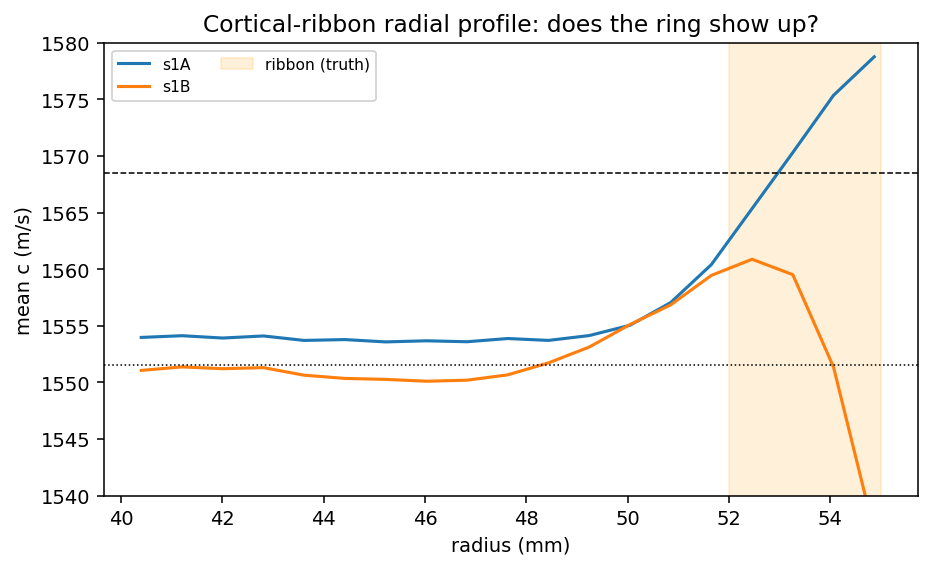
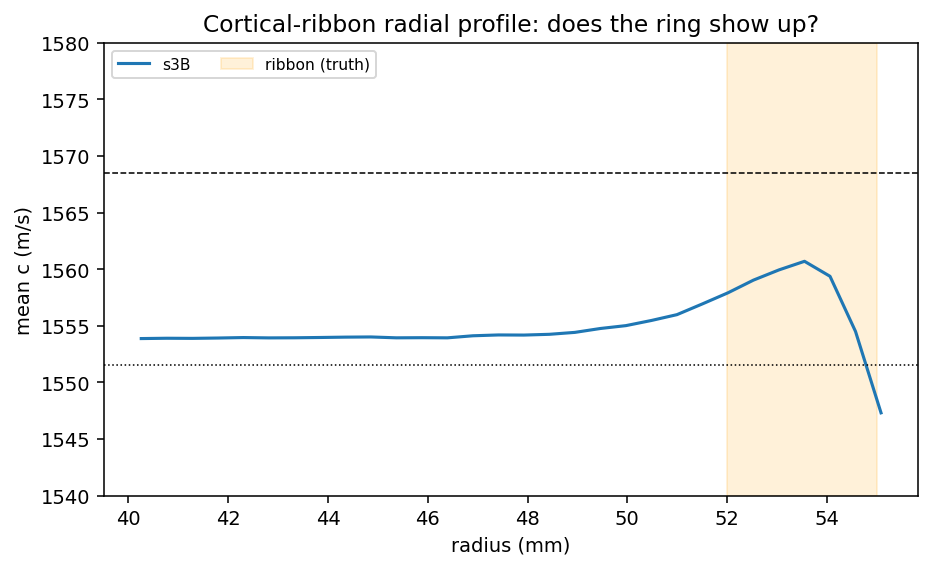
Frequency ladder complete in the fixed configuration: ribbon AUC 0.96 at 1.56 mm
--invert-all --smooth 2.0 up the ladder (stage 1/2/3): ribbon AUC
0.974 / 0.945 / 0.961 vs 0.848 / 0.798 / 0.858 frozen; nuclei AUC 1.000 at
every stage; WM speckle halved (5.0 -> 2.8 m/s); SSIM 0.25 -> 0.44-0.46.

ppw series (stage-1 and stage-2 bands on finer grids, smoothing fixed in
grid points): speckle rises monotonically 5.0 -> 6.2 -> 7.0 for ppw
3.2 -> 4.0 -> 4.9 and the ribbon collapses (0.85 -> 0.66). Speckle is set
by the regularisation scale in wavelengths, not by discretisation; the rule
is gradient_smooth_sigma ~ lambda/2 at the top band, scaled with ppw.

Risk register updated: item 7 (AUC != image quality) closed; new item 9
(frozen-interface edge artefact; unknown-skull compound case untested).

Claude-Session: https://claude.ai/code/session_01YLErgfPXCceEShEKvumB7Q

diff --git a/docs/design/scope_3d_gmwm_run.md b/docs/design/scope_3d_gmwm_run.md
@@ -520,3 +520,56 @@ recovered skull (0.07 vox) and a co-inverted diploe (0.3%) the start is near-tru
 expectation is that it composes; but a free skull that starts wrong may drift, and that
 is the compound pose+property+free-interface test the campaign has not run. Bounded,
 low-learning-rate inversion of the skull band is the conservative form to build.
+
+### ppw test: more points per wavelength makes speckle WORSE (`--stage 1 --N 176`, ppw 4.9)
+
+| stage-1 bands (300 kHz), frozen interface, σ_grad = 1 grid pt | ppw | σ_grad in λ | speckle σ | ribbon AUC | inner | nuclei AUC |
+|---|---|---|---|---|---|---|
+| N=112 (s1B) | 3.2 | λ/3.2 | 5.01 | 0.848 | 0.887 | 0.998 |
+| N=144 (s1B_ppw40), Modal A100-80, 34 min | 4.0 | λ/4.0 | **6.16** | **0.662** | 0.677 | 0.994 |
+| N=176 (s1B_ppw49), Modal A100-80, 74 min | 4.9 | λ/4.9 | **7.01** | **0.673** | 0.637 | 0.963 |
+| stage-2 bands (400 kHz): N=144 (s2B) | 3.1 | λ/3.1 | 4.21 | 0.798 | 0.823 | 0.998 |
+| stage-2 bands: N=176 (s2B_ppw37), 75 min | 3.7 | λ/3.7 | **4.74** | **0.612** | 0.604 | 0.987 |
+
+Monotonic across ppw 3.2 → 4.0 → 4.9 (speckle 5.0 → 6.2 → 7.0). The ppw hypothesis is dead: at fixed frequency and budget, a finer grid gives the gradient
+*more* sub-wavelength degrees of freedom to deposit noise in, and a smoothing kernel fixed
+in grid points shrinks in physical terms (λ/3 → λ/5). Speckle is set by the
+**regularisation scale measured in wavelengths**, not by discretisation accuracy; ppw 3.1
+was never the problem. Together with the σ=2 result this fixes the rule: specify
+`gradient_smooth_sigma` physically, ≈ λ/2 at the top band (2 grid points at ppw 3-4), and
+scale it with ppw when the grid is refined.
+
+### The fixed configuration up the ladder (`--invert-all --smooth 2.0`, 20 it × 4 shots)
+
+| stage | res | ribbon AUC / % | inner | outer | nuclei AUC / % | speckle σ | SSIM | RMSE | wall |
+|---|---|---|---|---|---|---|---|---|---|
+| 1 | 2.60 mm | **0.974** / 50% | 0.954 | 0.969 | 1.000 / 112% | 3.30 | 0.454 | 5.23 | 8 min RTX5090 |
+| 2 | 1.95 mm | **0.945** / 35% | 0.922 | 0.957 | 1.000 / 91% | **2.75** | **0.459** | 5.28 | 31 min A100-80 |
+| 3 | 1.56 mm | **0.961** / 39% | 0.936 | 0.973 | 1.000 / 83% | 2.82 | 0.440 | 5.20 | 71 min A100-80 |
+
+vs. the frozen-interface, σ=1 ladder: ribbon 0.848 / 0.798 / 0.858 → **0.974 / 0.945 / 0.961**. The fixed config lifts
+the ribbon by ~0.1-0.15 AUC at every stage and halves the speckle. Speckle keeps falling
+with N under the fixed config (3.3 → 2.75) — the λ/2 kernel now has more voxels to average.
+The ring amplitude falls with N at fixed budget (50 → 35%), the under-iteration effect
+measured earlier; a budget ∝ N³ ladder is the clean follow-up.
+
+**Headline (stage 3, 500 kHz, 1.02 mm voxels, transcranial, skull at truth, noiseless):
+3 mm cortical ribbon AUC 0.961 (inner 0.936 / outer 0.973), deep-gray GM/WM AUC 1.000 /
+83%, ventricle AUC 1.000, WM speckle 2.8 m/s, SSIM 0.44.** Every stage of the ladder now
+resolves the ribbon; the whole campaign's open "resolution" question was two configuration
+changes. Total cloud cost of the stage 2-3 ladder, the ppw series and the remedy sweep:
+≈ $25 (beam RTX5090 + Modal A100-80GB), 2026-10-22/23.
+
+### Risk register, updated
+1. ~~Diploe speed error~~ — CLOSED (co-inversion, 0.3%)
+2. Skull pose error — cliff at 0.25 vox; MOFI clears it ~3.5×
+3. Bulk skull speed error — graceful to 5%
+4. Coverage — ≥32 elements; also the only data-side lever on speckle (7.6 → 4.4 m/s)
+5. Noise — tolerable to 10 dB
+6. Skull attenuation error — nearly irrelevant
+7. ~~AUC is not image quality~~ — **CLOSED**: `gmwm_spatial_fidelity.py`; SSIM 0.25 → 0.45
+8. **No real ultrasound data** — the remaining gate
+9. **NEW — frozen-interface edge artefact**: a hard-frozen skull sign-inverts the
+   sub-skull cortex and regularisation makes it *more* convincing. Fixed here with a free
+   interface started at truth; the UNKNOWN-skull version (MOFI pose + co-inverted diploe +
+   free/soft interface) is the untested compound case and the next run.
